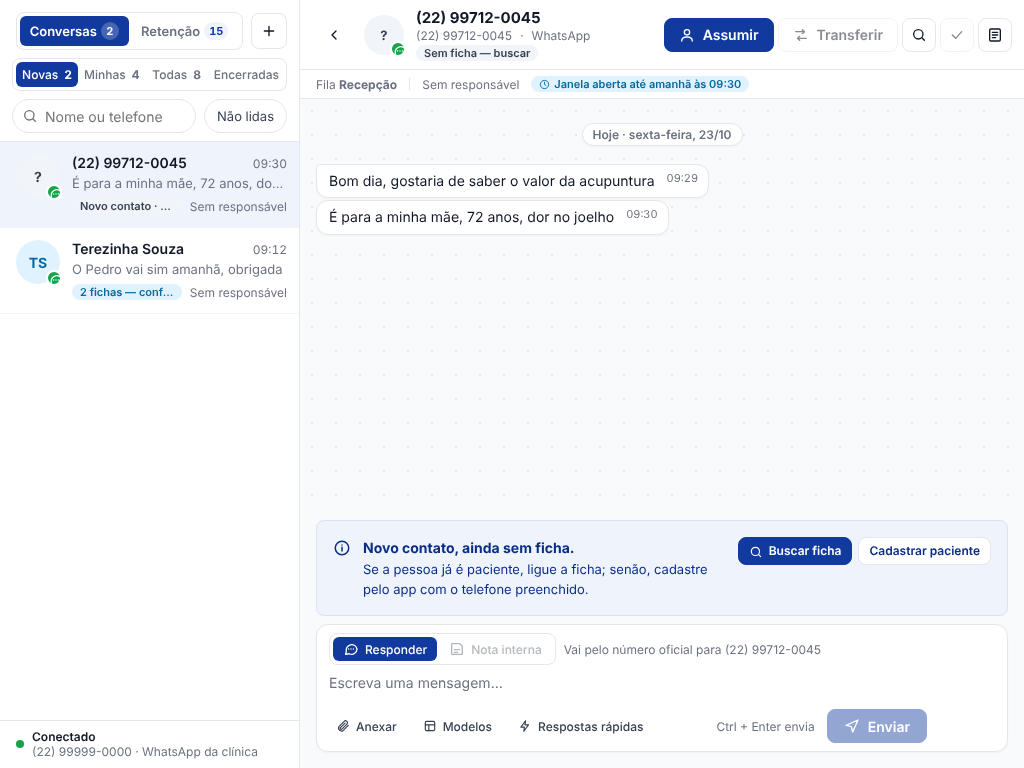
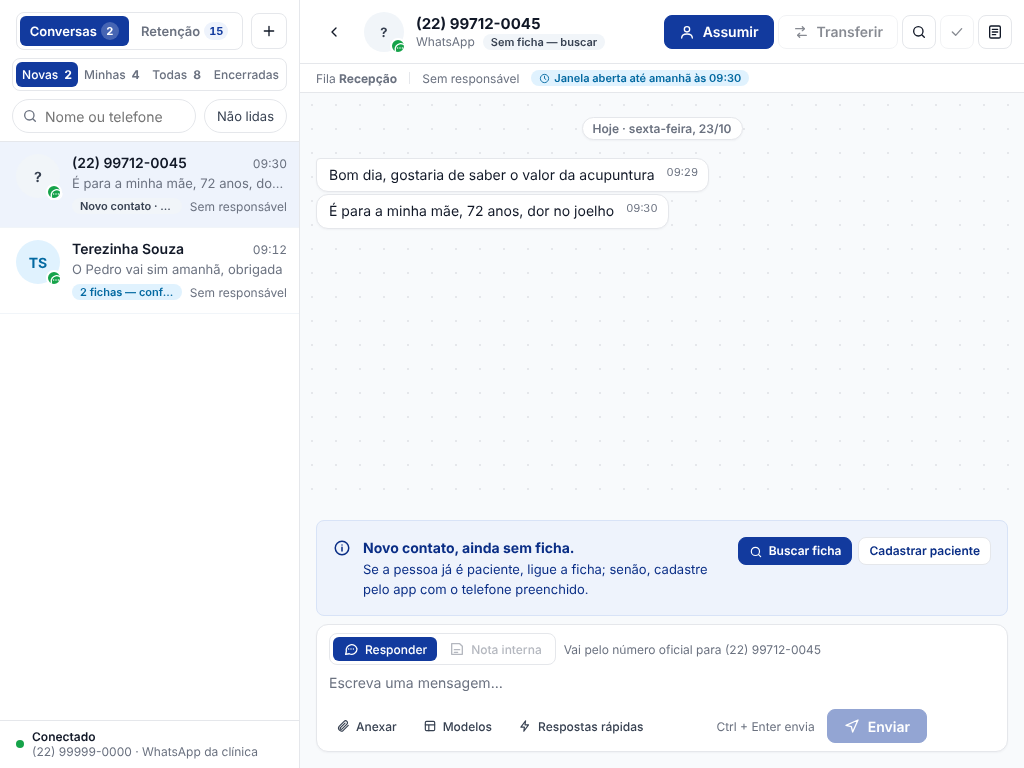
WhatsApp nativo: rodapés dos formulários, cabeçalho sem nome e grupos da lista
- Qual ficha, Encerrar e Como foi: a nota do rodapé empurrava o botão
  principal para baixo do Cancelar em 1024. O texto foi para o subtítulo (ou
  para o aviso azul, que já dizia o mesmo) e o rodapé ficou só com os botões.
- Sem nome, o título da conversa já é o telefone: a linha de baixo não o
  repete.
- O título fixo de grupo da lista (ex.: "Responderam · decidir o próximo
  passo") fica numa linha com reticências: quebrado em 300 px, a segunda
  linha aparecia por baixo do grupo seguinte.
- Fotos refeitas numa prévia recém-iniciada (41, sem vazamento).

Claude-Session: https://claude.ai/code/session_01HpPiBY5jRicdjB3mfhNSrv

diff --git a/src/Clinica.Ui.Blazor/Ativos/css/telas/conversas.css b/src/Clinica.Ui.Blazor/Ativos/css/telas/conversas.css
@@ -53,6 +53,8 @@
 .wa-grupo{position:sticky;top:0;z-index:1;display:flex;align-items:center;justify-content:space-between;gap:var(--space-2);padding:6px var(--space-4);
   background:var(--cinza-50);border-bottom:1px solid var(--borda);font-size:11px;font-weight:700;text-transform:uppercase;letter-spacing:var(--text-secao-tracking);color:var(--texto-secundario)}
 .wa-grupo span{font-variant-numeric:tabular-nums}
+/* Uma linha só: o título fixo que quebra em duas fica com a segunda linha por baixo do grupo seguinte (300 px). */
+.wa-grupo b{font-weight:inherit;min-width:0;overflow:hidden;text-overflow:ellipsis;white-space:nowrap}
 .wa-dias{font-size:var(--text-small-size);font-weight:700;font-variant-numeric:tabular-nums;white-space:nowrap}
 .wa-dias.tom-perigo{color:var(--erro-texto)}
 .wa-dias.tom-aviso{color:var(--aviso-texto)}

diff --git a/docs/whatsapp-nativo-implementacao.md b/docs/whatsapp-nativo-implementacao.md
@@ -414,5 +414,9 @@ cliques; a mensagem "Combinado…" fica como rascunho).
   cima e o número embaixo; o seletor Conversas/Retenção perdeu os ícones e passou a respeitar o
   próprio padding (o `.segmentado button` comum vencia — lição em `convencoes.md`), e o
   "Retenção 15" deixou de passar por baixo do "+"; a janela de quem nunca escreveu diz "Janela
-  fechada: a pessoa ainda não escreveu", sem o "desde sempre".
+  fechada: a pessoa ainda não escreveu", sem o "desde sempre"; sem nome, o cabeçalho não repete o
+  telefone; as janelas Qual ficha, Encerrar e Como foi perderam a nota do rodapé (ela empurrava o
+  botão principal para baixo do Cancelar em 1024; o texto foi para o subtítulo ou para o aviso); e
+  o título fixo de grupo da lista fica numa linha (quebrado, a segunda linha aparecia por baixo do
+  grupo seguinte).
 
